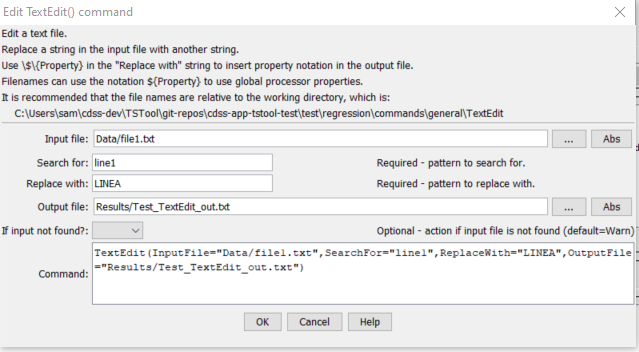
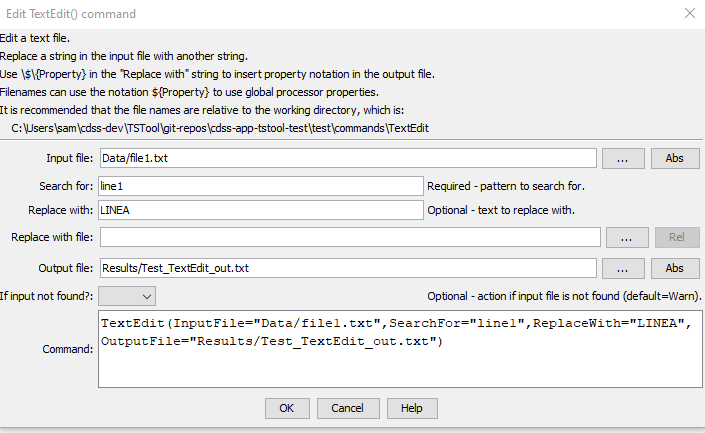
Update ProcessRasterGraph for image map features, issue #168

Changed region(s): [[0.0, 0.0, 1.0, 0.9688]]

diff --git a/mkdocs-project/docs/command-ref/ProcessRasterGraph/ProcessRasterGraph.md b/mkdocs-project/docs/command-ref/ProcessRasterGraph/ProcessRasterGraph.md
@@ -8,6 +8,7 @@
         -   [Single Hour Interval Time Series](#single-hour-interval-time-series)
         -   [Single Minute Interval Time Series](#single-minute-interval-time-series)
     +   [Multiple Time Series](#multiple-time-series)
+    +   [Web Page Image Map](#web-page-image-map)
 *   [Command Editor](#command-editor)
 *   [Command Syntax](#command-syntax)
 *   [Examples](#examples)
@@ -332,6 +333,57 @@ illustrating how diversions reduce the flow.
 Example Raster Graph for Multiple Time Series (<a href="../ProcessRasterGraph_Multiple_ExampleGraph.png">see full-size image</a>)
 </p>**
 
+It is envisioned that in the future, command parameters will implemented to:
+
+*   Create a raster graph without a time series product file,
+    as a way of streamlining product generation,
+    with parameters for important configuration information such as selecting a time series to plot,
+    and specifying the color scale and whether a log transform should be used.
+*   Specify an output table containing the colors used for plotting,
+    to allow export of the raster plot information to other tools, such as web visualization.
+    This will allow TSTool to be used to create the product, and other tools to visualize.
+*   Specify the output year type as a command parameter.
+*   Specify additional configuration options for controlling the X and Y axes (e.g., allow seasonal or weekly display).
+
+
+## Web Page Image Map ##
+
+A raster map (heat map) image can be published on a web page.
+It is also possible to implement an "image map" (see [Wikipedia article](https://en.wikipedia.org/wiki/Image_map)),
+which provides the following functionality:
+
+*   display a pop-up tooltip for one or more areas of the image,
+    for example to display the value corresponding to the raster cell (see the example below)
+*   enable one or more links, where clicking on the image opens another web page
+
+The following is an example of the image map output for multiple time series,
+with separate shapes for the data area and legend.
+
+```
+<!-- Image map created by TSTool for raster graph -->
+<img src="test-ProcessRasterGraph-Month-multiple-imagemap-out.png" usemap="#imagemap1"/>
+<map name="imagemap1">
+  <area shape="rect" coords="86,21,464,184" href="https://weather.com" title="tooltip for data area for usgs:06752000.DWR.Streamflow-Avg.Month">
+  <area shape="rect" coords="86,185,464,348" href="https://weather.com" title="tooltip for data area for usgs:06752260.USGS.Streamflow-Avg.Month">
+  <area shape="rect" coords="29,376,688,386" href="https://usgs.gov" title="tooltip for legend area for usgs:06752000.DWR.Streamflow-Avg.Month">
+  <area shape="rect" coords="29,386,631,396" href="https://usgs.gov" title="tooltip for legend area for usgs:06752260.USGS.Streamflow-Avg.Month">
+</map>
+```
+
+See the command editor ***Image Map*** tab and command parameters with names starting with `ImageMap` to create an image map.
+Image map shapes for the data area and time series legend can be configured separately
+with each shape having a `title` (tooltip) and/or `href` (link).
+The resulting image map output file specified with the `ImageMapFile` command parameter can then be inserted into an HTML page,
+for example using the [`TextEdit`](../TextEdit/TextEdit.md) command.
+
+**<p style="text-align: center;">
+![Image map  example](ProcessRasterGraph-Example-ImageMap.png)
+</p>**
+
+**<p style="text-align: center;">
+Image Map Web Page Example (<a href="../ProcessRasterGraph-Example-ImageMap.png">see full-size image</a>)
+</p>**
+
 ## Command Editor ##
 
 The command is available in the following TSTool menu:
@@ -341,11 +393,27 @@ The command is available in the following TSTool menu:
 The following dialog is used to edit the command and illustrates the syntax of the command.
 
 **<p style="text-align: center;">
-![ProcessRasterGraph command editor](ProcessRasterGraph.png)
+![ProcessRasterGraph command editor for input parameters](ProcessRasterGraph-Input.png)
 </p>**
 
 **<p style="text-align: center;">
-`ProcessRasterGraph` Command Editor (<a href="../ProcessRasterGraph.png">see full-size image</a>)
+`ProcessRasterGraph` Command Editor for Input Parameters (<a href="../ProcessRasterGraph-Input.png">see full-size image</a>)
+</p>**
+
+**<p style="text-align: center;">
+![ProcessRasterGraph command editor for output parameters](ProcessRasterGraph-Output.png)
+</p>**
+
+**<p style="text-align: center;">
+`ProcessRasterGraph` Command Editor for Output Parameters (<a href="../ProcessRasterGraph-Output.png">see full-size image</a>)
+</p>**
+
+**<p style="text-align: center;">
+![ProcessRasterGraph command editor for image map parameters](ProcessRasterGraph-ImageMap.png)
+</p>**
+
+**<p style="text-align: center;">
+`ProcessRasterGraph` Command Editor for Image Map Parameters (<a href="../ProcessRasterGraph-ImageMap.png">see full-size image</a>)
 </p>**
 
 ## Command Syntax ##
@@ -360,27 +428,25 @@ ProcessRasterGraph(Parameter="Value",...)
 Command Parameters
 </p>**
 
-|**Parameter**&nbsp;&nbsp;&nbsp;&nbsp;&nbsp;&nbsp;&nbsp;&nbsp;&nbsp;&nbsp;&nbsp;&nbsp;&nbsp;&nbsp;&nbsp;&nbsp;&nbsp;&nbsp;&nbsp;&nbsp;&nbsp;&nbsp;&nbsp;&nbsp;&nbsp;&nbsp;&nbsp;|**Description**|**Default**&nbsp;&nbsp;&nbsp;&nbsp;&nbsp;&nbsp;&nbsp;&nbsp;&nbsp;&nbsp;&nbsp;&nbsp;&nbsp;&nbsp;&nbsp;&nbsp;&nbsp;&nbsp;&nbsp;&nbsp;&nbsp;&nbsp;&nbsp;&nbsp;&nbsp;&nbsp;&nbsp;|
-|--------------|-----------------|-----------------|
-|`TSProductFile`|The time series product file to process.  The path to the file can be absolute or relative to the working directory.  Can be specified with `${Property}`.  The time series product file should define the following properties:<ul><li>`GraphType` - specify as `Raster` for the `[SubProduct #]` property.</li><li>`SymbolTablePath` - specify as a `[SsubProduct #]`property for multiple time series or `[Data #.#]` property for single time series, indicating the path to the color table (see the [Time Series Product File - Symbol Tables](../../appendix-tsview/tsview.md#time-series-product-file-symbol-tables) documentation for the format specification).  The property currently must be manually added to the time series product file after saving from the TSTool graph view.  If not specified in the product file, a default symbol table will be used, which may not be appropriate for optimal data visualization.</li></ul> | None – must be specified.|
-|`RunMode`|Indicate the run mode to process the product:<ul><li>`BatchOnly` – indicates that the product should only be processed in batch mode.</li><li>`GUIOnly` – indicates that the product should only be processed when the TSTool GUI is used (useful when Preview is set to Preview).</li><li>`GUIAndBatch` – indicates that the product should be processed in batch and GUI mode.</li></ul>|None – must be specified.|
-|`View`|Indicates whether the output should be previewed interactively:<ul><li>`True` – display the graph.</li><li>`False` – do not display the graph (specify the output file instead to automate image creation).</li></ul>|None – must be specified.|
-|`OutputFile`|The absolute or relative path to an output file.  Use this parameter with `View=False` to automate image processing.  If the filename ends in “jpg”, a JPEG image file will be produced.  If the filename ends in “png”, a PNG file will be produced (recommended).  Can be specified with `${Property}`. |Graph file will not be created.|
-|`VisibleStart`|The starting date/time to zoom for the initial (and image file) graph.|Full period is visible.|
-|`VisibleEnd`|The ending date/time to zoom for the initial (and image file) graph.|Full period is visible.|
-|`CommandStatusProperty`|The name of the property to set as the command run status: `Success`, `Warning`, `Failure`.  This can be used to implement error handling in a workflow. | |
-
-It is envisioned that in the future, command parameters will implemented to:
-
-*   Create a raster graph without a time series product file,
-    as a way of streamlining product generation,
-    with parameters for important configuration information such as selecting a time series to plot,
-    and specifying the color scale and whether a log transform should be used.
-*   Specify an output table containing the colors used for plotting,
-    to allow export of the raster plot information to other tools, such as web visualization.
-    This will allow TSTool to be used to create the product, and other tools to visualize.
-*   Specify the output year type as a command parameter.
-*   Specify additional configuration options for controlling the X and Y axes (e.g., allow seasonal or weekly display).
+|**Tab**|**Parameter**&nbsp;&nbsp;&nbsp;&nbsp;&nbsp;&nbsp;&nbsp;&nbsp;&nbsp;&nbsp;&nbsp;&nbsp;&nbsp;&nbsp;&nbsp;&nbsp;&nbsp;&nbsp;&nbsp;&nbsp;&nbsp;&nbsp;&nbsp;&nbsp;&nbsp;&nbsp;&nbsp;|**Description**|**Default**&nbsp;&nbsp;&nbsp;&nbsp;&nbsp;&nbsp;&nbsp;&nbsp;&nbsp;&nbsp;&nbsp;&nbsp;&nbsp;&nbsp;&nbsp;&nbsp;&nbsp;&nbsp;&nbsp;&nbsp;&nbsp;&nbsp;&nbsp;&nbsp;&nbsp;&nbsp;&nbsp;|
+|--|--------------|-----------------|-----------------|
+|***Input*** | `TSProductFile`<br>**required**</br>|The time series product file to process.  The path to the file can be absolute or relative to the working directory.  Can be specified with `${Property}`.  The time series product file should define the following properties:<ul><li>`GraphType` - specify as `Raster` for the `[SubProduct #]` property.</li><li>`SymbolTablePath` - specify as a `[SsubProduct #]`property for multiple time series or `[Data #.#]` property for single time series, indicating the path to the color table (see the [Time Series Product File - Symbol Tables](../../appendix-tsview/tsview.md#time-series-product-file-symbol-tables) documentation for the format specification).  The property currently must be manually added to the time series product file after saving from the TSTool graph view.  If not specified in the product file, a default symbol table will be used, which may not be appropriate for optimal data visualization.</li></ul> | None – must be specified.|
+| |`RunMode`|Indicate the run mode to process the product:<ul><li>`BatchOnly` – indicates that the product should only be processed in batch mode.</li><li>`GUIOnly` – indicates that the product should only be processed when the TSTool GUI is used (useful when Preview is set to Preview).</li><li>`GUIAndBatch` – indicates that the product should be processed in batch and GUI mode.</li></ul>|None – must be specified.|
+| ***Output*** |`View`|Indicates whether the output should be previewed interactively:<ul><li>`True` – display the graph.</li><li>`False` – do not display the graph (specify the output file instead to automate image creation).</li></ul>|None – must be specified.|
+| |`OutputFile`<br>**required**</br>|The path to the image output file.  Use this parameter with `View=False` to automate image processing.  If the filename ends in “jpg”, a JPEG image file will be produced.  If the filename ends in “png”, a PNG file will be produced (recommended).  Can be specified with `${Property}`. |Graph file will not be created.|
+| |`VisibleStart`|The starting date/time to zoom for the initial (and image file) graph.|Full period is visible.|
+| |`VisibleEnd`|The ending date/time to zoom for the initial (and image file) graph.|Full period is visible.|
+| |`CommandStatusProperty`|The name of the property to set as the command run status: `Success`, `Warning`, `Failure`.  This can be used to implement error handling in a workflow. | |
+| ***Image Map*** | `ImageMapFile` | The path to the image map output file.  Can be specified with `${Property}`. If specified, indicates that an image map is being output and the following parameters will be used. | |
+| | `ImageMapUrl`| The URL for the image map. The URL can be a full URL or path that allows the image to be found from the HTML image map. | None - must be specified. |
+| | `ImageMapName` | The `name` for the image map. | `imagemap` |
+| | `ImageMapDataArea` | Indicates the data area that is mapped to image map shapes:<ul><li>`Cell` - raster cells (coordinates will be rounded up or down to avoid overlap)</li><li>`TimeSeries` - entire time series is mapped to a shape</li></ul> | `imagemap` |
+| | `ImageMapDataHref` | The `href` for the image map data shapes. | If not specified, a link will not be enabled. |
+| | `ImageMapDataTarget` | The `target` for the image map data shapes, one of the following:<ul><li>`Blank` - open link in a new tab or window</li><li>`Parent` - open the link in the parent frame </li><li>`Self` - open link in the same tab</li><li>`Top` - open link in the full window, breaking out of frames</li></ul> | Depends on browser, typically `Self`. |
+| | `ImageMapDataTitle` | The `title` for the image map data shapes, used to display a tooltip.  Can contain:<ul><li>`${Property}` - processor property</li><li>`${ts:property}` - time series property</li><li>`${tsdata:datetime}` - time series date/time for a value</li><li>`${tsdata:flag}` - time series value flag</li><li>`${tsdata:value}` - time series value</li></ul> | If not specified, a tooltip will not be enabled. |
+| | `ImageMapLegendHref` | The `href` for the image map time series legend shapes. | If not specified, a link will not be enabled. |
+| | `ImageMapLegendTarget` | The `target` for the image map time series legend shapes, one of the following:<ul><li>`Blank` - open link in a new tab or window</li><li>`Parent` - open the link in the parent frame </li><li>`Self` - open link in the same tab</li><li>`Top` - open link in the full window, breaking out of frames</li></ul> | Depends on browser, typically `Self`. |
+| | `ImageMapLegendTitle` | The `title` for the image map time series legend shapes, used to display a tooltip.  Can contain:<ul><li>`${Property}` - processor property</li><li>`${ts:property}` - time series property</li></ul> | If not specified, a tooltip will not be enabled. |
 
 ## Examples ##
 
@@ -393,3 +459,4 @@ See the main [TSTool Troubleshooting](../../troubleshooting/troubleshooting.md) 
 ## See Also ##
 
 *   [`ProcessTSProduct`](../ProcessTSProduct/ProcessTSProduct.md) command
+*   [`TextEdit`](../TextEdit/TextEdit.md) command

diff --git a/mkdocs-project/docs/plugin-ref/overview.md b/mkdocs-project/docs/plugin-ref/overview.md
@@ -31,10 +31,15 @@ Plugins are suitable in the following cases:
 
 *   plugin features are specific to a system,
     for example integrating with a specific database that is used by a relatively small number of users
+    (e.g., the Reclamation HDB plugin)
+*   plugin features are used in a private system that does not require public release
 *   plugin software is developed and maintained independent of the core TSTool software,
     including staff and financial resources independent of OpenCDSS support for the core product
+    (e.g., plugins developed and used by TriLynx Systems)
 *   plugin software has a large footprint such as many software files and dependencies
-*   plugin features are experimental and MAY be incorporated into the core TSTool product at some point in the future
+    (e.g., the Amazon Web Services plugin)
+*   plugin features are experimental and MAY be incorporated into the core TSTool product at some point in the future,
+    or are envisioned for research and may never be released as a production version
 
 Plugins have technical challenges, which must be addressed by plugin developers
 and will continue to be considered by core product developers:
@@ -46,8 +51,9 @@ and will continue to be considered by core product developers:
 *   plugin support and maintenance is provided by third parties, which may have costs
 *   compatibility issues may arise as the core TSTool product is enhanced,
     which may limit plugin usability to certain TSTool versions
-    (new TSTool features are planned to improve configuration and management of different plugin versions
-    for different TSTool versions)
+    (TSTool 15.0.0 introduced the ***Plugin Manager*** and other features to
+    improve configuration and management of different plugin versions
+    for different TSTool versions and will continue to be enhanced over time)
 
 ## Plugin List ##
 
@@ -61,7 +67,8 @@ Available TSTool Plugins
 
 | **Plugin** | **Description** | **Contact Email** |
 |--|--|--|
-| [Amazon Web Services](https://software.openwaterfoundation.org/tstool-aws-plugin/) | Commands to integrate with AWS. | [Open Water Foundation](mailto:steve.malers@openwaterfoundation.org?subject=TSTool AWS plugin) |
+| [Amazon Web Services](https://software.openwaterfoundation.org/tstool-aws-plugin/) | Commands to integrate with Amazon Web Services (AWS). | [Open Water Foundation](mailto:steve.malers@openwaterfoundation.org?subject=TSTool AWS plugin) |
+| [Bitbucket Cloud Web Services](https://software.openwaterfoundation.org/tstool-bitbucket-plugin/) | Commands to integrate with Bitbucket Cloud Web Services, which provides hosting of Git repositories. | [Open Water Foundation](mailto:steve.malers@openwaterfoundation.org?subject=TSTool Bitbucket plugin) |
 | [Google Drive](https://software.openwaterfoundation.org/tstool-googledrive-plugin/) | Commands to integrate with Google Drive. | [Open Water Foundation](mailto:steve.malers@openwaterfoundation.org?subject=TSTool Google Drive plugin) |
 | [Kisters WISKI (KiWIS) web services](https://software.openwaterfoundation.org/tstool-kiwis-plugin/) | Datastore and commands to integrate with the Kisters WISKI (KiWIS) system web services. | [Open Water Foundation](mailto:steve.malers@openwaterfoundation.org?subject=TSTool Kisters WISKI plugin) |
 | [Reclamation HDB](https://software.openwaterfoundation.org/tstool-reclamationhdb-plugin/) | Datastore and commands to integrate with the US Bureau of Reclamation's HDB database. | [Open Water Foundation](mailto:steve.malers@openwaterfoundation.org?subject=TSTool Reclamation HDB plugin) |
@@ -92,9 +99,9 @@ whereas plugins installed in software installation files only apply to that vers
 
 Plugins generally consist of a plugin Java `jar` file, which contains various software modules and files.
 Additional dependencies are installed in the `dep` folder under the plugin.
-The providers of plugins will provide documentation that explains plugin installation and datastore configuration.
+Plugin software publishers will provide documentation that explains plugin installation and datastore configuration.
 
-Plugin software are updated on a frequency that is independent of the core TSTool product,
+Plugin software is updated on a frequency that is independent of the core TSTool product,
 although some coordinated releases may be required if the plugin integration requirements change.
-In the future, a plugin manager tool may be added to the TSTool interface
-to help with notification about available software updates.
+In the future, the ***Plugin Manager*** tool will be enhanced to provide additional
+checks and notifications about updates.

diff --git a/mkdocs-project/docs/command-ref/TextEdit/TextEdit.md b/mkdocs-project/docs/command-ref/TextEdit/TextEdit.md
@@ -14,11 +14,8 @@
 
 The `TextEdit` command edits a text file,
 currently providing simple search and replace for literal strings.
-
-In the future this command may be enhanced to add the following features:
-
-*   edit an in-memory property value containing text
-*   allow multiple operations in one command
+The replacement text can be provided using the `ReplaceWith` command parameter or from a file
+using the `ReplaceWithFile` command parameter.
 
 The search and replace functionality is implemented using Java pattern matching and regular expressions
 (see the Java [`Pattern`](https://docs.oracle.com/javase/8/docs/api/java/util/regex/Pattern.html) class documentation).
@@ -28,8 +25,9 @@ For example, some patterns pass through to the underlying code without changes w
 need to be transformed or "escaped" to protect from manipulation by TSTool.
 The following examples illustrate how to perform common search and replace tasks.
 
-The [`ReadPropertiesFromFile`](../ReadPropertiesFromFile/ReadPropertiesFromFile.md) command
-can be used to read one or more properties from a text file
+See also other commands that manipulate properties such as
+the [`ReadPropertiesFromFile`](../ReadPropertiesFromFile/ReadPropertiesFromFile.md) command,
+which can be used to read one or more properties from a text file
 and the property values can be used to replace text in an initial file.
 
 ## Command Editor ##
@@ -62,8 +60,9 @@ Command Parameters
 | **Parameter**&nbsp;&nbsp;&nbsp;&nbsp;&nbsp;&nbsp;&nbsp;&nbsp;&nbsp;&nbsp;&nbsp;&nbsp;&nbsp;&nbsp;&nbsp;&nbsp;&nbsp;&nbsp;&nbsp;&nbsp;&nbsp; | **Description** | **Default**&nbsp;&nbsp;&nbsp;&nbsp;&nbsp;&nbsp;&nbsp;&nbsp;&nbsp;&nbsp; |
 | --------------|-----------------|----------------- |
 | `InputFile`<br>**required** | The name of the input file.  Can be specified using `${Property}`. | None - must be specified. |
-| `SearchFor`<br>**required** | The string to search for in the input file.<ul><li>can be specified using `${Property}`</li><li>see the examples in [Search and Replace Example Patterns](#search-and-replace-example-patterns).</li><li>can begin and/or end with whitespace characters</li></ul>| None - must be specified. |
-| `ReplaceWith`<br>**required** | The string to use for the replacement string in the output file:<ul><li>see the examples in [Search and Replace Example Patterns](#search-and-replace-example-patterns)</li><li>can begin and/or end with whitespace characters</li><li>specify as `EMPTY_STRING` to remove the `SearchFor` string</li></ul> | None - must be specified. |
+| `SearchFor`<br>**required** | The string to search for in the input file.<ul><li>can be specified using `${Property}`</li><li>see the examples in [Search and Replace Example Patterns](#search-and-replace-example-patterns).</li><li>can begin and/or end with white space characters</li></ul>| None - must be specified. |
+| `ReplaceWith` | The string to use for the replacement string in the output file:<ul><li>see the examples in [Search and Replace Example Patterns](#search-and-replace-example-patterns)</li><li>can begin and/or end with whitespace characters</li><li>specify as `EMPTY_STRING` to remove the `SearchFor` string</li></ul> | Must be specified if `ReplaceWithFile` is not specified. |
+| `ReplaceWithFile` | The name of a file containing text to use for the `ReplaceWith` text.  The entire file is used for the replacement, including end of line characters. The file name and content can use `${Property}` syntax. | Must be specified if `ReplaceWith` is not specified. |
 | `OutputFile`<br>**required** | The name of the output file.  Can be specified using `${Property}`. | None - must be specified. |
 | `IfInputNotFound` | Indicate an action if the source file is not found:  `Ignore` (ignore the missing file and do not warn), `Warn` (generate a warning message), `Fail` (generate a failure message) | `Warn` |
 

diff --git a/mkdocs-project/docs/appendix-release-notes/release-notes-15.md b/mkdocs-project/docs/appendix-release-notes/release-notes-15.md
@@ -5,11 +5,21 @@ See also the [GitHub repository issues](https://github.com/OpenCDSS/cdss-app-tst
 for outstanding issues and enhancement requests.
 Issues may also be included in other repositories that are TSTool components.
 
+*   [Changes in Version 15.2.0](#changes-in-version-1520)
 *   [Changes in Version 15.1.0](#changes-in-version-1510)
 *   [Changes in Version 15.0.0](#changes-in-version-1500)
 *   [Release notes for all versions](release-notes.md)
 
 ----------
+
+## Changes in Version 15.2.0 ##
+
+**Feature release to improve plugin and data visualization features.**
+
+*   ![change](change.png) [15.2.0] Update the [`ProcessRasterGraph`](../command-ref/ProcessRasterGraph/ProcessRasterGraph.md) command:
+    +   Add the ability to create an HTML image map so that using the image on a website can include links to other content.
+*   ![change](change.png) [15.2.0] Update the [`TextEdit`](../command-ref/TextEdit/TextEdit.md) command:
+    +   Add the `ReplaceWithFile` parameter to allow replacing text with text from a file.
 
 ## Changes in Version 15.1.0 ##
 
